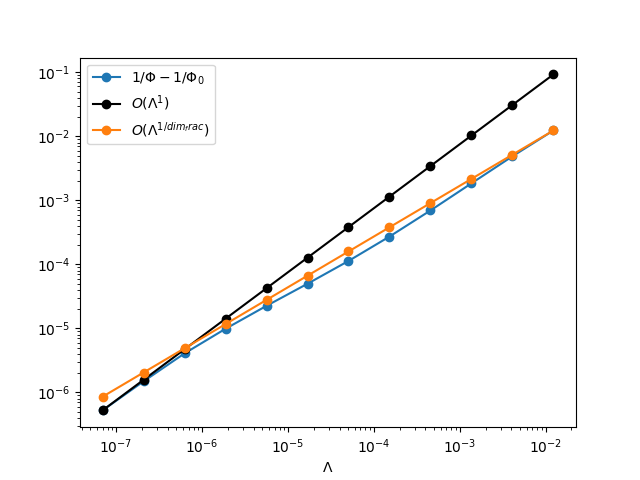
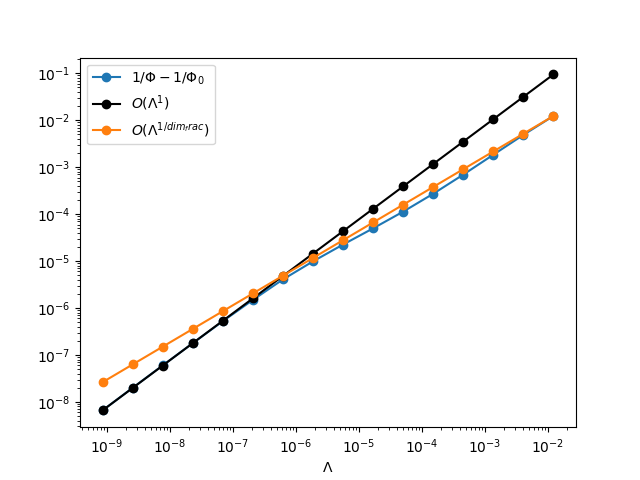
update

diff --git a/Ex1_square_top_snowflake/main_flux.py b/Ex1_square_top_snowflake/main_flux.py
@@ -29,7 +29,7 @@ u = TrialFunction(V)
 v = TestFunction(V)
 
 # get flux Phi0 at lambda = 0
-Lambda=10**(-10)
+Lambda=10**(-11)
 a = Constant(D)*dot(grad(u), grad(v))*dx++Constant(D)/Constant(Lambda)*u*v*ds(4)
 L = Constant(0)*v*dx
 # list of boundary  ids that corresponds to the exterior boundary of the domain
@@ -93,7 +93,7 @@ PETSc.Sys.Print(f"Result for 0<Lambda<1000 saved to results/Phi_Lam_{nn}.csv ")
 # Region 1: Lambda <l 
 Phi=[]
 cc=[]
-LL = np.array([3**(-i) for i in range(nn,16)])
+LL = np.array([3**(-i) for i in range(nn,20)])
 for Lambda in LL:
   a = Constant(D)*dot(grad(u), grad(v))*dx+Constant(D)/Constant(Lambda)*u*v*ds(4)
   L = Constant(0)*v*dx
